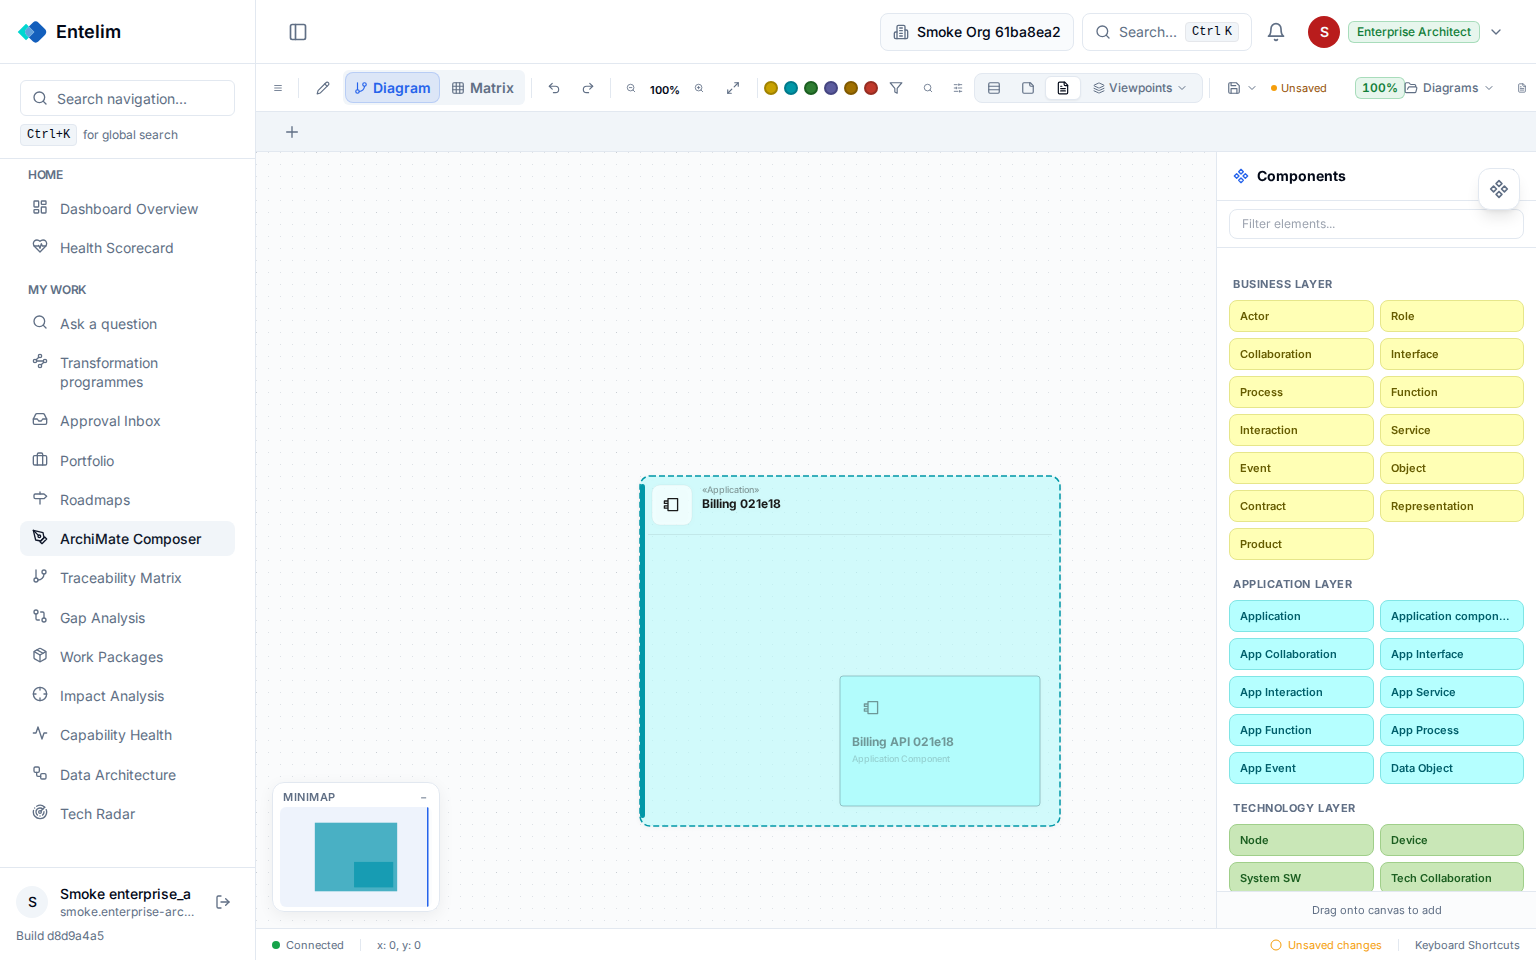
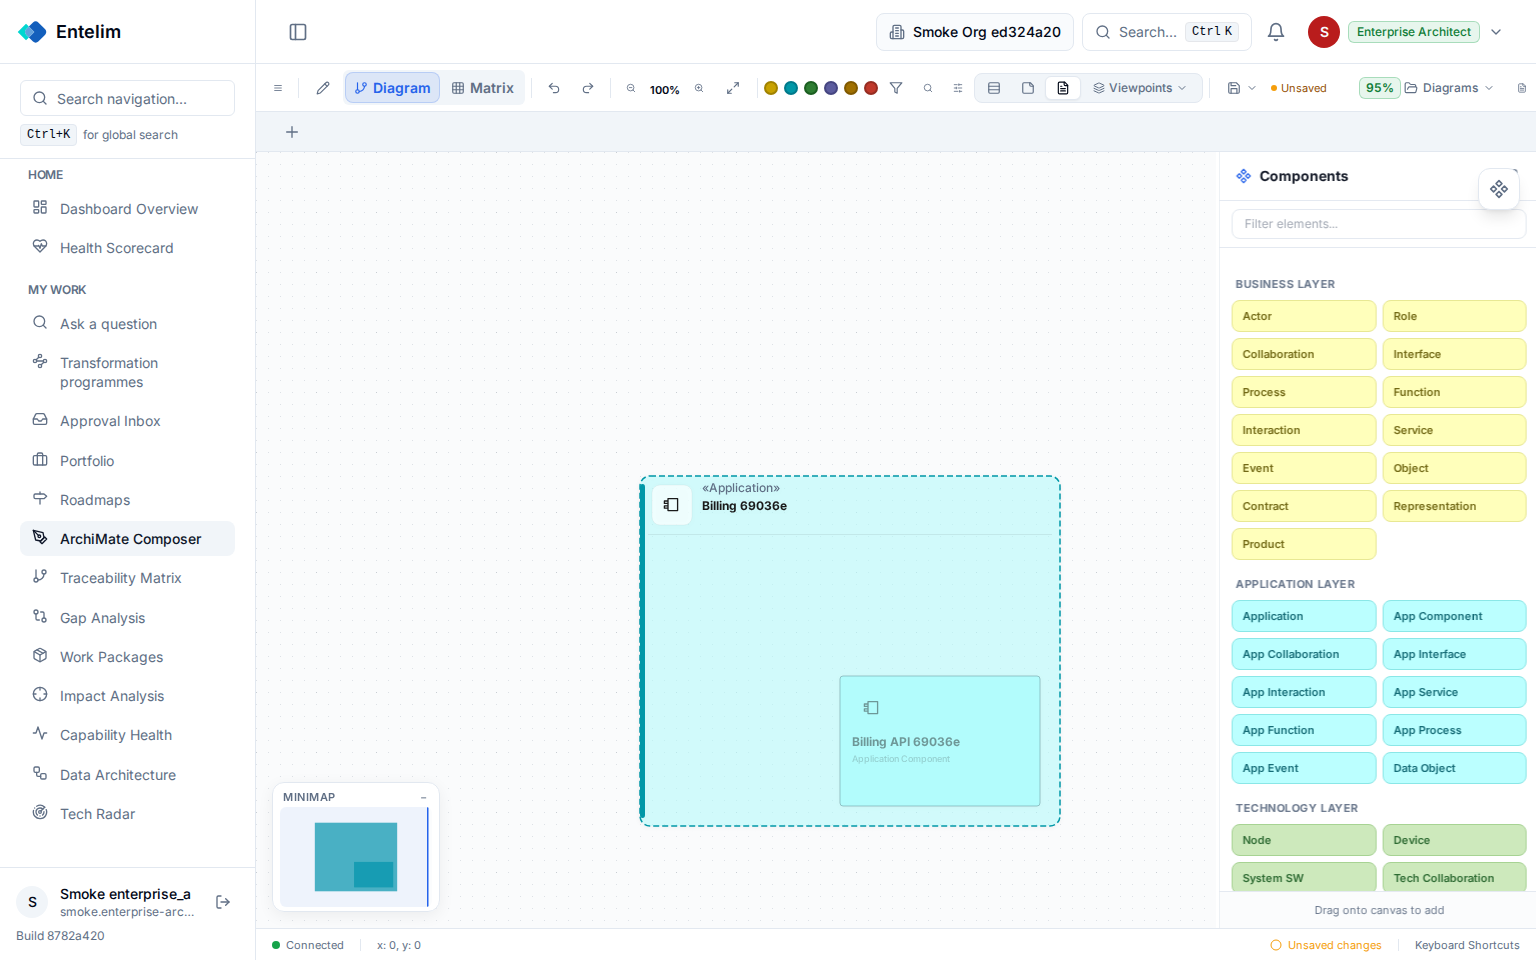
Application element, step 5 review fixes: short palette chip and a legible stereotype
The component chip reads App Component like its siblings and keeps Application component as its tooltip. The
Application stereotype is drawn at the small-text size in the muted-foreground token with no opacity. No
Tailwind class was added, so the stylesheet is unchanged.

Evidence: pytest tests/test_composer_application_palette.py tests/test_composer_focus_route.py tests/test_template_contracts.py tests/test_composer_frontend_static.py tests/test_composer_renderer_options.py tests/test_no_literal_application_component_checks.py tests/test_check_reuse_register.py -> 208 passed

diff --git a/app/static/js/archimate/composer_renderer.js b/app/static/js/archimate/composer_renderer.js
@@ -48,7 +48,7 @@ let ComposerRenderer = (function() {
         ],
         'Application': [
             { type: 'Application',              label: 'Application' },
-            { type: 'ApplicationComponent',     label: 'Application component' },
+            { type: 'ApplicationComponent',     label: 'App Component' },
             { type: 'ApplicationCollaboration', label: 'App Collaboration' },
             { type: 'ApplicationInterface',     label: 'App Interface' },
             { type: 'ApplicationInteraction',   label: 'App Interaction' },
@@ -139,7 +139,7 @@ let ComposerRenderer = (function() {
         Object.keys(PALETTE).forEach(function(layerName) {
             PALETTE[layerName].forEach(function(item) {
                 if (TYPE_REGISTRY[item.type] && TYPE_REGISTRY[item.type].label) {
-                    item.label = TYPE_REGISTRY[item.type].label;
+                    item.title = TYPE_REGISTRY[item.type].label;
                 }
             });
         });
@@ -160,6 +160,9 @@ let ComposerRenderer = (function() {
     function placeSpecialisationTag(node, elType, tagY, nameY) {
         if (!specialisationTag(elType)) return;
         node.attr('typeLabel/y', tagY);
+        node.attr('typeLabel/style', 'fill: hsl(var(--muted-foreground))');
+        node.attr('typeLabel/fontSize', 12);
+        node.attr('typeLabel/fontWeight', 500);
         node.attr('nameLabel/y', nameY);
     }
 
@@ -906,7 +909,7 @@ let ComposerRenderer = (function() {
             attrs: shapeAttrs,
         });
 
-        placeSpecialisationTag(node, elType, 58, 70);
+        placeSpecialisationTag(node, elType, 54, 72);
 
         /* UX-CMP-001: Override port colors with layer accent.
          * Ports are pre-declared in CARD_PORTS.items; here we just restyle them. */
@@ -1104,7 +1107,7 @@ let ComposerRenderer = (function() {
             },
         });
 
-        placeSpecialisationTag(container, elType, 10, 22);
+        placeSpecialisationTag(container, elType, 6, 24);
 
         /* UX-CMP-001: Override port colors for containers.
          * Ports pre-declared in CARD_PORTS.items; restyle with layer accent. */

diff --git a/app/templates/archimate/composer.html b/app/templates/archimate/composer.html
@@ -1448,7 +1448,7 @@ nav[aria-label="Composer toolbar"] { margin-bottom: 0 !important; }
                                      draggable="true"
                                      @dragstart="onPaletteDragStart($event, t)"
                                      @dragend="onPaletteDragEnd($event)">
-                                    <span class="truncate" :title="t.label" x-text="t.label"></span>
+                                    <span class="truncate" :title="t.title || t.label" x-text="t.label"></span>
                                 </div>
                             </template>
                         </div>

diff --git a/tests/test_composer_application_palette.py b/tests/test_composer_application_palette.py
@@ -55,7 +55,8 @@ def test_application_group_leads_with_application_then_the_component():
     group = _palette()["Application"]
     labels = type_registry_for_page()
     assert group[0] == ("Application", labels["Application"]["label"])
-    assert group[1] == (base_type("Application"), labels[base_type("Application")]["label"])
+    # the chip is short like its siblings (App Collaboration, App Interface); the registry holds the full name
+    assert group[1] == (base_type("Application"), "App Component")
     assert labels["Application"]["label"] == plain_name_for("Application") == "Application"
     assert labels[base_type("Application")]["label"] == "Application component"
     assert labels["Application"]["base"] == labels[base_type("Application")]["base"]
@@ -82,7 +83,10 @@ def test_the_type_registry_reaches_the_page_and_labels_the_notation():
     template = (ROOT / "app/templates/archimate/composer.html").read_text(encoding="utf-8")
     assert "typeRegistry: {{ type_registry|tojson }}" in template
     assert "ComposerRenderer.applyTypeRegistry(" in template
-    assert ':title="t.label" x-text="t.label"' in template, "a long label must stay readable in the chip"
+    assert ':title="t.title || t.label" x-text="t.label"' in template, "the chip's full name is its tooltip"
+    assert "item.title = TYPE_REGISTRY[item.type].label" in RENDERER
+    assert "typeLabel/style', 'fill: hsl(var(--muted-foreground))'" in RENDERER
+    assert "typeLabel/fontSize', 12" in RENDERER
     assert "«" in RENDERER or "\u00ab" in RENDERER
 
 

diff --git a/tests/smoke/test_composer_application_palette.py b/tests/smoke/test_composer_application_palette.py
@@ -64,7 +64,9 @@ def test_application_with_a_component_is_stored_and_survives_reload(browser, liv
 
     # both palette entries are offered with their plain labels
     palette = page.evaluate("Object.values(ComposerRenderer.PALETTE).flat().map(i => [i.type, i.label])")
-    assert [APP, "Application"] in palette and [COMP, "Application component"] in palette
+    assert [APP, "Application"] in palette and [COMP, "App Component"] in palette
+    titles = page.evaluate("Object.values(ComposerRenderer.PALETTE).flat().map(i => [i.type, i.title])")
+    assert [COMP, "Application component"] in titles
 
     _quick_add(page, app_name, APP)
     _quick_add(page, comp_name, COMP)
